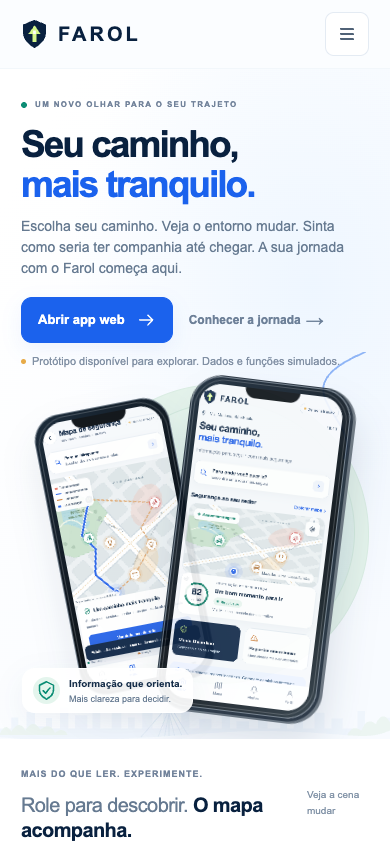
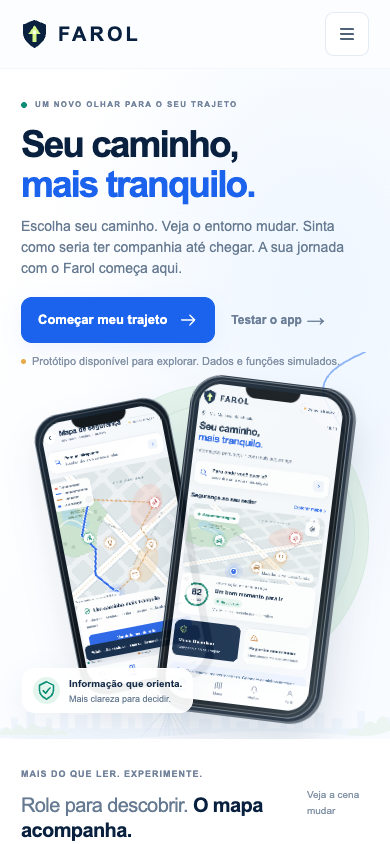
Install Farol PWA from landing page

Changed region(s): [[0.1538, 0.3389, 0.7692, 0.4313], [0.0923, 0.3697, 0.1231, 0.4005]]

diff --git a/docs/index.html b/docs/index.html
@@ -23,7 +23,7 @@
   <link rel="stylesheet" href="mobile.css">
   <link rel="stylesheet" href="install.css">
   <script src="site.js" defer></script>
-  <script src="pwa.js?v=2" defer></script>
+  <script src="pwa.js?v=3" defer></script>
 </head>
 <body>
   <a class="skip-link" href="#conteudo">Pular para o conteúdo</a>
@@ -57,7 +57,7 @@
           <span class="eyebrow"><i></i> UM NOVO OLHAR PARA O SEU TRAJETO</span>
           <h1 id="hero-title">Seu caminho,<br><span>mais tranquilo.</span></h1>
           <p class="hero-description">Escolha seu caminho. Veja o entorno mudar. Sinta como seria ter companhia até chegar. A sua jornada com o Farol começa aqui.</p>
-          <div class="hero-actions"><a class="button" href="demo/">Abrir app web <svg class="icon"><use href="#i-arrow"/></svg></a><a class="quiet-link" href="#jornada">Conhecer a jornada <span>→</span></a></div>
+          <div class="hero-actions"><a class="button" href="#jornada">Começar meu trajeto <svg class="icon"><use href="#i-arrow"/></svg></a><a class="quiet-link" href="demo/">Testar o app <span>→</span></a></div>
           <p class="demo-note"><span></span> Protótipo disponível para explorar. Dados e funções simulados.</p>
           <div class="hero-benefits"><span><svg class="icon"><use href="#i-shield"/></svg>Escolhas mais informadas</span><span><svg class="icon"><use href="#i-pin"/></svg>Mais tranquilidade no trajeto</span></div>
         </div>
@@ -114,7 +114,7 @@
       <details><summary>Há integração com câmeras e sensores?<svg class="icon"><use href="#i-plus"/></svg></summary><p>Câmeras, sensores urbanos e alertas em tempo real fazem parte da evolução prevista. Eles não estão conectados à versão demonstrativa disponível nesta página.</p></details>
       <details><summary>Preciso criar uma conta para explorar?<svg class="icon"><use href="#i-plus"/></svg></summary><p>O protótipo não exige cadastro e não pede acesso ao GPS ou aos contatos. Relatos e preferências da demonstração ficam apenas no navegador ou no aparelho, e podem ser apagados em Perfil → Reiniciar apresentação.</p></details>
     </div></div></section>
-    <section class="download-section" id="experimentar" aria-labelledby="download-title"><div class="container download-inner reveal"><span class="eyebrow">SEU PRÓXIMO PASSO</span><h2 id="download-title">O Farol no seu celular,<br><span>sem baixar arquivos.</span></h2><p>Abra agora no navegador ou adicione o app web à tela inicial do Android e do iPhone.</p><div class="download-actions"><a href="demo/" class="button">Abrir aplicativo web <svg class="icon"><use href="#i-arrow"/></svg></a><button type="button" data-install-app class="button secondary">Instalar como app <svg class="icon"><use href="#i-plus"/></svg></button></div><p class="download-info">Mesmo link nos dois sistemas · protótipo com dados simulados</p><div class="install-help"><strong>Como funciona?</strong><p>No Android, o Chrome oferece a instalação pelo menu. No iPhone, abra o aplicativo no Safari e use Compartilhar → Adicionar à Tela de Início. Depois da primeira visita online, ele também pode abrir offline.</p></div></div></section>
+    <section class="download-section" id="experimentar" aria-labelledby="download-title"><div class="container download-inner reveal"><span class="eyebrow">SEU PRÓXIMO PASSO</span><h2 id="download-title">O Farol no seu celular,<br><span>sem baixar arquivos.</span></h2><p>Adicione este app web à tela inicial do Android ou do iPhone.</p><div class="download-actions"><button type="button" data-install-app class="button">Instalar o Farol <svg class="icon"><use href="#i-plus"/></svg></button><a href="demo/" class="button secondary">Testar antes de instalar <svg class="icon"><use href="#i-arrow"/></svg></a></div><p class="download-info">Um PWA para os dois sistemas · protótipo com dados simulados</p><div class="install-help"><strong>Como funciona?</strong><p>Toque em “Instalar o Farol”. No Android, o Chrome pode abrir a confirmação de instalação. No iPhone, você verá o passo a passo para adicionar esta página à Tela de Início pelo Safari. Depois da primeira visita online, o app web também pode abrir offline.</p></div></div></section>
   </main>
   <footer class="footer"><div class="container footer-inner"><a href="#topo" class="brand"><img src="assets/logo.svg" width="29" height="32" alt=""><span>FAROL</span></a><p>Informação que orienta. Tranquilidade que acompanha.</p><a href="#experimentar">Conheça o protótipo <span>↑</span></a></div><div class="container footer-bottom"><span>Projeto Farol · 2026</span><span>Deslocamentos mais seguros começam com informação.</span></div></footer>
 </body>

diff --git a/docs/pwa.js b/docs/pwa.js
@@ -6,7 +6,6 @@ if('serviceWorker' in navigator && (location.protocol==='https:' || /^(localhost
 
 let installPrompt=null;
 const installButtons=Array.from(document.querySelectorAll('[data-install-app]'));
-const isDemo=location.pathname.replace(/\/$/,'').endsWith('/demo');
 const isIOS=/iPad|iPhone|iPod/.test(navigator.userAgent)||(navigator.platform==='MacIntel'&&navigator.maxTouchPoints>1);
 const isAndroid=/Android/.test(navigator.userAgent);
 const installed=()=>matchMedia('(display-mode: standalone)').matches||navigator.standalone===true;
@@ -26,11 +25,11 @@ function showGuide(){
   const title=guide.querySelector('#install-title'),description=guide.querySelector('#install-description'),steps=guide.querySelector('#install-steps');
   if(isIOS){
     title.textContent='Adicione o Farol no iPhone';
-    description.textContent='No Safari, esta página vira um ícone que abre a demonstração como aplicativo web.';
+    description.textContent='No Safari, você pode adicionar o Farol à Tela de Início sem sair desta página.';
     steps.replaceChildren(...['Abra esta página no Safari. Se estiver em outro aplicativo, use a opção para abrir no navegador.','Toque em Compartilhar e escolha “Adicionar à Tela de Início”.','Se aparecer, ative “Abrir como App” e toque em Adicionar.'].map(step=>{const li=document.createElement('li');li.textContent=step;return li;}));
   }else if(isAndroid){
     title.textContent='Instale o Farol no Android';
-    description.textContent='O Chrome pode adicionar esta demonstração à sua tela inicial.';
+    description.textContent='O Chrome pode adicionar o Farol à sua tela inicial.';
     steps.replaceChildren(...['Abra esta página no Chrome.','Toque no menu ⋮ e escolha “Instalar app” ou “Adicionar à tela inicial”.','Confirme para abrir o Farol pelo novo ícone.'].map(step=>{const li=document.createElement('li');li.textContent=step;return li;}));
   }else{
     title.textContent='Use o Farol como app web';
@@ -55,11 +54,6 @@ installButtons.forEach(button=>button.addEventListener('click',async()=>{
     updateInstalled();
     return;
   }
-  if(!isDemo){location.href=new URL('demo/?instalar=1',siteRoot).href;return;}
   showGuide();
 }));
-if(isDemo&&new URLSearchParams(location.search).has('instalar')){
-  window.history.replaceState(null,'',location.pathname);
-  showGuide();
-}
 updateInstalled();

diff --git a/docs/demo/index.html b/docs/demo/index.html
@@ -24,7 +24,7 @@
     @media(max-width:350px){.demo-return a{font-size:10px}.demo-return .install-shortcut{font-size:10px;padding:8px}}
   </style>
   <script src="app.js" defer></script>
-  <script src="../pwa.js?v=2" defer></script>
+  <script src="../pwa.js?v=3" defer></script>
 </head>
 <body>
   <header class="demo-return"><a href="../"><img src="../assets/logo.svg" alt="">← Voltar para a apresentação</a><button type="button" class="install-shortcut" data-install-app>Instalar app</button></header>

diff --git a/docs/sw.js b/docs/sw.js
@@ -1,5 +1,5 @@
 'use strict';
-const CACHE='farol-web-v2';
+const CACHE='farol-web-v3';
 const FILES=[
   './','index.html','style.css','journey.css','mobile.css','install.css','site.js','pwa.js','manifest.webmanifest',
   'assets/logo.svg','assets/icon-192.png','assets/icon-512.png','assets/apple-touch-icon.png',

diff --git a/README.md b/README.md
@@ -6,8 +6,8 @@ Landing interativa e aplicativo web instalável (PWA) do Farol. A leitura muda u
 
 ## Testar no celular
 
-- **Android:** abra o link no Chrome e toque em “Instalar como app”. Se o navegador não oferecer uma janela de instalação, use “Instalar app” ou “Adicionar à tela inicial” no menu ⋮.
-- **iPhone:** abra o link no Safari, toque em “Abrir app web” e, na demonstração, toque em “Instalar app”. No Safari, use Compartilhar → “Adicionar à Tela de Início” e, se aparecer, ative “Abrir como App”.
+- **Android:** abra a landing no Chrome e toque em “Instalar o Farol”. Se o navegador não oferecer uma janela de instalação, siga as instruções exibidas e use “Instalar app” ou “Adicionar à tela inicial” no menu ⋮.
+- **iPhone:** abra a landing no Safari e toque em “Instalar o Farol” para ver o passo a passo. No Safari, use Compartilhar → “Adicionar à Tela de Início” e, se aparecer, ative “Abrir como App”.
 - O mesmo endereço funciona nos dois sistemas, sem baixar APK ou IPA. Após a primeira visita online, o service worker guarda a landing e a demonstração para acesso offline. Dados da demonstração ficam somente no armazenamento local do navegador e podem ser apagados em Perfil → Reiniciar apresentação.
 
 O mapa, scores, rotas, horários, localização, ocorrências, Guardião e SOS são simulados. Nenhuma mensagem é enviada e nenhum serviço de emergência é acionado. Não há GPS, backend ou alertas reais nesta versão.
